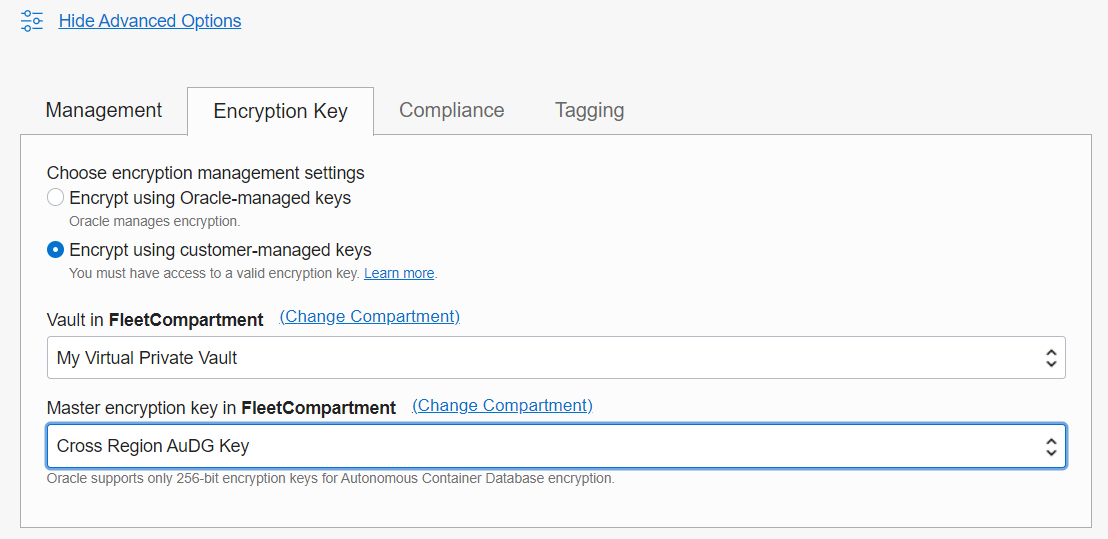
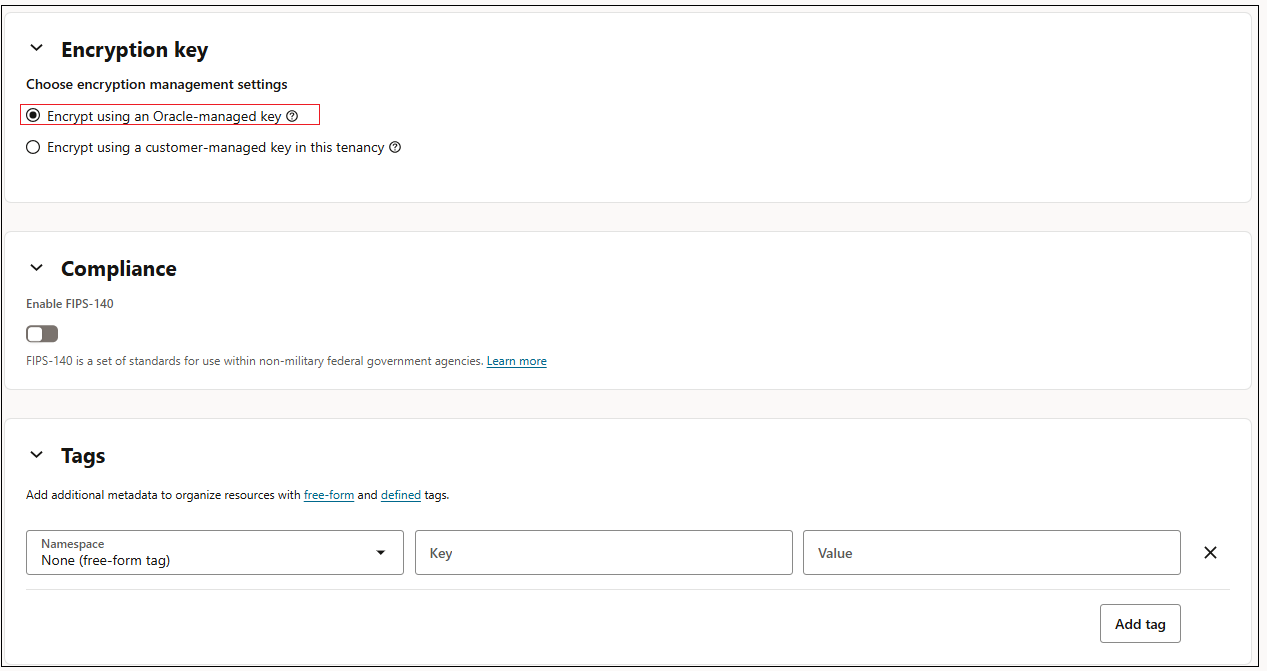
updated screenshots

diff --git a/adb-provisioning-autonomous-container/adb-provisioning-autonomous-container.md b/adb-provisioning-autonomous-container/adb-provisioning-autonomous-container.md
@@ -24,46 +24,63 @@ Watch the video below for an overview of creating an Autonomous Container Databa
 
 *Log in to your OCI account as a fleet administrator*
 
-- Navigate to the **Autonomous AI Database or Autonomous AI Database Dedicated** option under **Oracle Database** in the top left hamburger menu from your OCI home screen.
+- Navigate to the **Oracle AI Database** option in the top left hamburger menu from your OCI home screen. Click **Autonomous AI Database on Dedicated Infrastructure**.
 
-- Pick **Autonomous Container Database** from the three option, make sure you have selected the compartment hosting your exadata infrastructure and click the blue **Create Autonomous Container Database** button.
+- Select **Autonomous Container Database** from the menu on the left. Click **Create Autonomous Container Database**.
 
     ![This image shows the result of performing the above step.](./images/create-acd1.png " ")
 
 - On the **Create Autonomous Container Database** dialog box you can choose / modify the compartment to create your ACD. Select the compartment hosting your Exadata Infrastructure and Autonomous Exadata VM Cluster.
 
+- Enter a user-friendly description or other information that helps you easily identify the resource. Enter a name for the container database. It can contain only letters and numbers. 
+
+- Choose the Exadata Infrastructure and an Autonomous Exadata VM Cluster to host the new Autonomous Container Database.
+
+- Choose the Oracle Database software version for the Autonomous Container Database.
+
     ![This image shows the result of performing the above step.](./images/create-acd2.png " ")
 
-- Choose Container Database software Version from the dropdwon.
-
-    ![This image shows the result of performing the above step.](./images/create-acd10.png " ")
-
-- To configure Autonomous Data Guard, select the **Enable Autonomous Data Guard** checkbox and select your standby region, standby Exadata Infrastructure and Standby Autonomous VM Cluster. You also have the option to change the protection and enable Automatic Failover. To learn more about Autonomous Data Guard, head to our **Autonomous Data Guard** lab in this workshop.
+- You will see an option to modify your ACD's maintenance schedule and the type of update you wish to apply to the container. Optionally, you can configure a maintenance preference or schedule by clicking Modify maintenance schedule that launches the Edit automatic maintenance dialog.
 
     ![This image shows the result of performing the above step.](./images/create-acd3.png " ")
 
-- As you scroll down the form you will see an option to modify your ACD's maintenance schedule and the type of update you wish to apply to the container.
+- You can choose between Rolling or Non-rolling maintenance methods. Optionally, you can also select Enable time-zone update. You can change the maintenance schedule from the default to a custom schedule.
 
-- You may choose to configure container database maintenance version to either Next RU or Latest RU. And also, specify your ACD's maintenance schedule, picking a month, week, day and time in each quarter when a maintenance operation can be carried out on that container.
+    ![This image shows the result of performing the above step.](./images/create-acd3a.png " ")
+
+- You can specify your ACD's maintenance schedule, picking a month, week, day and time in each quarter when a maintenance operation can be carried out on that container.
+    
+    ![This image shows the result of performing the above step.](./images/create-acd3b.png " ")
+
+- By default, automatic backups are enabled for an ACD. Optionally, you can choose to disable them by deselecting the Enable automatic backups check box. When you enable automatic backups, choose from the following options to determine how long backups are retained after terminating the ACD: 
+   - Retain backups as per the backup retention period
+   - Retain backups for 72hours, then delete
+
+- You can associate a backup destination for the backups of Autonomous AI Databases created in an ACD. You can choose Object Storage or Autonomous Recovery Service (recommended option) as the backup destination for Autonomous AI Databases deployed On Oracle Public Cloud.  If creating the Autonomous Container Database on Exadata Cloud@Customer, configure the backup destination to be used for backups of Autonomous AI Databases created in the Autonomous Container Database. Select a Backup Destination Type and then specify options based on the selected type.
+
+- If you choose to retain backups for the duration of the backup retention period, you can also enable retention lock.
+
+- After enabling automatic backups, specify a Backup retention period value to meet your needs. You can choose any value between 7 to 95 days.
+
+- Optionally, select Enable cross-region backup copy and specify a region for the backup copies.
 
     ![This image shows the result of performing the above step.](./images/create-acd4.png " ")
 
-- If creating the Autonomous Container Database on Exadata Cloud@Customer, configure the backup destination to be used for backups of Autonomous AI Databases created in the Autonomous Container Database. Select a Backup Destination Type and then specify options based on the selected type.
+- Optionally, you can add contact emails to receive operational notifications, announcements, and unplanned maintenance notifications regarding your Autonomous Container Database.
 
-    ![This image shows the result of performing the above step.](./images/create-acd9.png " ")
+   ![This image shows the result of performing the above step.](./images/create-acd5.png " ")
 
-Lastly, there are multiple features available under the advanced options section.
+- Optionally, you can define a suitable value for the following resource management attributes to suit your needs. Optionally, select Enable shared server connections to support the Net services architecture.
 
-- You may  choose a different backup retention period by selecting a retention policy from the **Management** tab under **Advanced Options** as shown below.
+   ![This image shows the result of performing the above step.](./images/create-acd6.png " ")
 
-    ![This image shows the result of performing the above step.](./images/create-acd6.png " ")
+- Optionally, you can configure the Autonomous Container Database to use customer-managed encryption keys instead of Oracle-managed encryption keys. Select **Encrypt using customer-managed keys** and then select either the **Vault and Master** encryption key or the **Key Store** to use for the Autonomous Container Database, depending on whether you are creating the container database on Oracle Cloud or on Exadata Cloud@Customer.
 
-- Optionally, configure the Autonomous Container Database to use customer-managed encryption keys instead of Oracle-managed encryption keys. Select **Encrypt using customer-managed keys** and then select either the **Vault and Master** encryption key or the **Key Store** to use for the Autonomous Container Database, depending on whether you are creating the container database on Oracle Cloud or on Exadata Cloud@Customer.
+- Optionally, you may also enable FIPS-140 security standards.
 
-    ![This image shows the result of performing the above step.](./images/create-acd7.png " ")
+- If you want to use tags, add tags by selecting a Tag Namespace, Tag Key, and Tag Value.
 
-- You may also enable FIPS-140 security standards under the advanced options.
-    ![This image shows the result of performing the above step.](./images/create-acd8.png " ")
+   ![This image shows the result of performing the above step.](./images/create-acd7.png " ")
 
 That's it. Simply scroll down to the bottom and click the blue **Create Autonomous Container Database** button to deploy your ACD.
 
@@ -74,8 +91,8 @@ You may now **proceed to the next lab**.
 *All Done! You have successfully deployed your Autonomous Container Database and it should be available shortly.*
 
 - **Author** - Ranganath S R, Tejus S. & Kris Bhanushali
-- **Adapted by** -  Yaisah Granillo, Cloud Solution Engineer
-- **Last Updated By/Date** - Tejus S, March 2023
+- **Updated By/Date** - Vandana Rajamani, December 2025
+- **Last Updated By/Date** - Vandana Rajamani, December 2025
 
 ## See an issue or have feedback?
 Please submit feedback [here](https://apexapps.oracle.com/pls/apex/f?p=133:1:::::P1_FEEDBACK:1).   Select 'Autonomous DB on Dedicated Exadata' as workshop name, include Lab name and issue / feedback details. Thank you!
